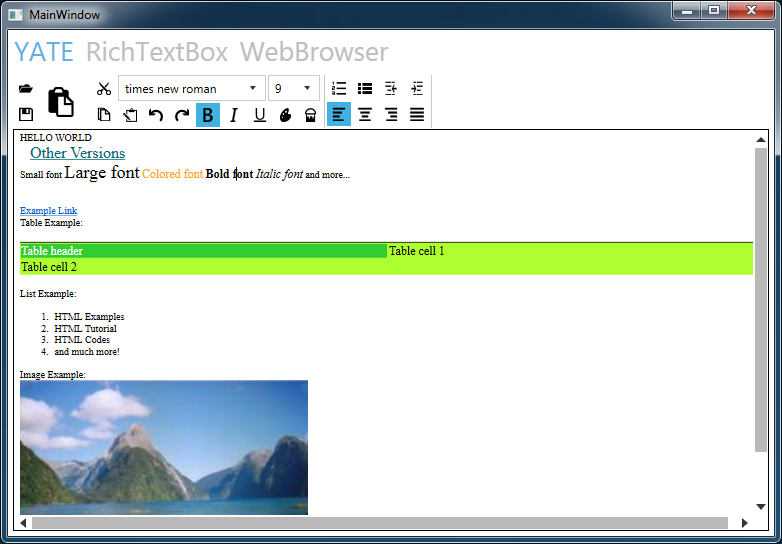
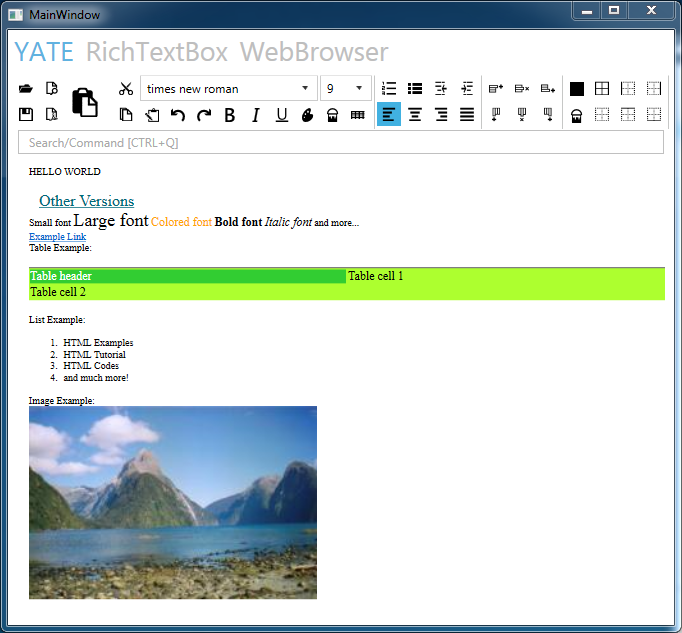
Documentation Update

diff --git a/README.md b/README.md
@@ -5,9 +5,9 @@ YATE is short project to extend RichTextBox with some features from WebBrowser c
 
 ## Current Downloads:
 
-[0.01 Alpha: Source Code (zip)](https://github.com/alexiej/YATE/archive/v0.01.zip)
+[0.01 Alpha: Source Code (zip)](https://github.com/alexiej/YATE/archive/v1.00.zip)
 
-[0.01 Alpha: Source Code (tar.gz)](https://github.com/alexiej/YATE/archive/v0.01.tar.gz)
+[0.01 Alpha: Source Code (tar.gz)](https://github.com/alexiej/YATE/archive/v1.00.tar.gz)
 
 ![MainWindow](https://raw.githubusercontent.com/alexiej/YATE/master/YATE.Win/docs/MainWindow.png)
 
@@ -32,6 +32,20 @@ In this control you can:
 
 * Many commands for edit RichTextBox.
 * Good looking Toolbar with MahApps.Metro style.
+* Export to (.XAML,.XPS,.PDF)
+* Table Operations
+
+![CREATE](https://raw.githubusercontent.com/alexiej/YATE/master/YATE.Win/docs/CREATE.png)
+
+![TABLE](https://raw.githubusercontent.com/alexiej/YATE/master/YATE.Win/docs/TABLE.png)
+
+* Print Preview
+
+![TABLE](https://raw.githubusercontent.com/alexiej/YATE/master/YATE.Win/docs/PRINT_PREVIEW.png)
+
+* Search TextBox
+
+![TABLE](https://raw.githubusercontent.com/alexiej/YATE/master/YATE.Win/docs/SEARCH.png)
 
 ## Icons/Style
 
